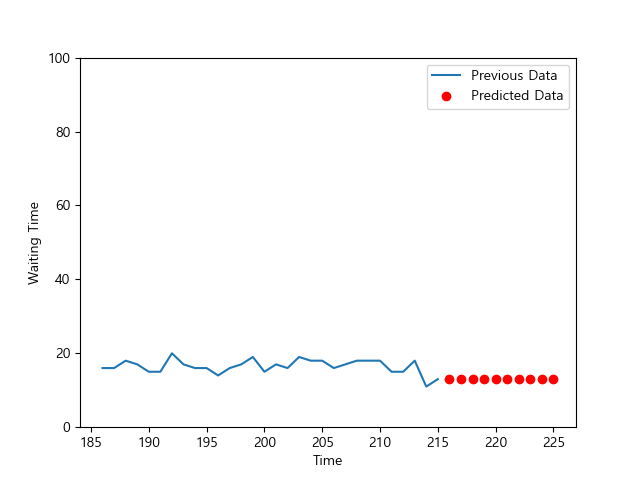
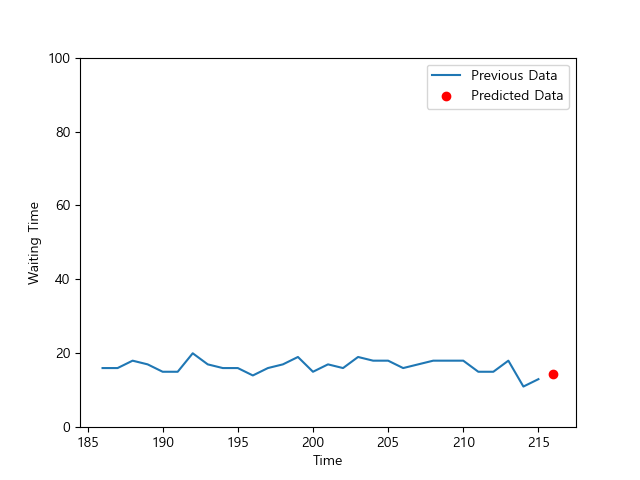
update

diff --git a/pctc-da/Congest_project/yard_congestion/DA/main.py b/pctc-da/Congest_project/yard_congestion/DA/main.py
@@ -38,7 +38,7 @@ def commit_model(new_data):
     # 기존 데이터와 new_data Concat 및 작업코드, 누적 컨테이너 열 정리
     def add_data(data, new_data):
         
-        new_data = pd.DataFrame(new_data)
+        # new_data = pd.DataFrame(new_data)
         new_data = new_data[['작업 지시 시간', '작업 완료 시간', '작업코드']]
         # new_data['작업코드'] = new_data['작업코드'].replace({'양하': 1, '적하': -1, '반입': 1, '반출': -1})        
         print('new_data', new_data)
@@ -105,13 +105,10 @@ def commit_model(new_data):
 
 
         n_data['입차시간'] = n_data['입차시간'].dt.round('5min')  # 5분 단위로 그룹화
-
         n_data = n_data.groupby('입차시간').mean().reset_index()  # 나머지 열의 평균값 계산
-
-        print(n_data)
         return n_data, congest_level
     
-    def make_model(data, new_data2):
+    def make_model(data):
         # 데이터 전처리
         data = n_data[['입차시간', '대기시간new']].copy()
         data.set_index('입차시간', inplace=True)
@@ -151,6 +148,7 @@ def commit_model(new_data):
         predictions = pd.DataFrame({'입차시간': data.index[train_size+window_size:], '예측 대기시간new': y_pred.flatten()})
         print('predictions',predictions)
         predict_time = predictions['예측 대기시간new'].iloc[-1]
+        # 입력한 시간의 예측 대기시간###################################
         print(predict_time)
         # 시간 복원
         test_dates = data.index[train_size+window_size:]
@@ -191,15 +189,12 @@ def commit_model(new_data):
         return predict_time
 
     # 새로운 데이터 포인트 생성
-    new_data2 = pd.DataFrame({'입차시간': ['2021-02-07 20:12:00'], '대기시간new': [0.0]})
-    print(new_data)
-    new_data2['입차시간'] = pd.to_datetime(new_data2['입차시간'])    
-    print(new_data2)
+
     data = load()
     combined_data = add_data(data, new_data)
     n_data, congest_level = preprocessing(combined_data)
-    waiting_time = make_model(n_data, new_data2)
-    return waiting_time, congest_level
+    predict_time = make_model(n_data)
+    return predict_time, congest_level
 
     # new_pred = make_model(n_data)
     # print(new_pred)

diff --git a/pctc-da/Congest_project/yard_congestion/DA/predict_LSTM_test.py b/pctc-da/Congest_project/yard_congestion/DA/predict_LSTM_test.py
@@ -53,9 +53,7 @@ def preprocessing(combined_data):
     df = pd.DataFrame(combined_data)
     df['작업 지시 시간'] = pd.to_datetime(df['작업 지시 시간'])
     df['작업 완료 시간'] = pd.to_datetime(df['작업 완료 시간'])
-
     df['대기시간'] = df['작업 완료 시간'] - df['작업 지시 시간']
-
     n_data = df.copy()
     n_data['작업 지시 시간'] = n_data['작업 지시 시간'].dt.round('5min')  # 5분 단위로 그룹화
     n_data = n_data.groupby('작업 지시 시간').mean().reset_index()  # 나머지 열의 평균값 계산
@@ -73,6 +71,10 @@ def preprocessing(combined_data):
     column_list = n_data['대기시간new'].tolist()
 
     print(column_list)
+    # 파일에 리스트 저장
+    with open("list_data.txt", "w") as file:
+        for item in column_list:
+            file.write(str(item) + "\n")
 
     return column_list
 
@@ -112,7 +114,7 @@ model.fit(X, y, epochs=20, batch_size=32)
 # 이후 30개의 대기시간 예측
 last_sequence = data[-lookback:]  # 최근 30개의 대기시간 데이터를 가져옵니다.
 predicted_data = []
-for _ in range(10):
+for _ in range(1):
     sequence = np.array(last_sequence)
     sequence = np.reshape(sequence, (1, lookback, 1))
     prediction = model.predict(sequence)[0][0]
@@ -124,7 +126,7 @@ print(predicted_data)
 
 # 그래프로 예측 결과와 실제 데이터를 표현합니다.
 x_axis_previous = range(len(data)-30, len(data))  # 기존 데이터 중 마지막 30개의 인덱스
-x_axis_predicted = range(len(data), len(data) + 10)  # 이후 3개의 예측 데이터
+x_axis_predicted = range(len(data), len(data) + 1)  # 이후 2개의 예측 데이터
 # 개수 오류 계속 났었음. ( x_axis_previous = previous_data 맞춰줘야 하고, x_axis_predicted = predicted_data 맞춰줘야 함)
 plt.plot(x_axis_previous, previous_data, label='Previous Data')
 plt.scatter(x_axis_predicted, predicted_data, label='Predicted Data', color='red')

diff --git a/pctc-da/Congest_project/yard_congestion/app.py b/pctc-da/Congest_project/yard_congestion/app.py
@@ -31,22 +31,6 @@ def congestion():
 #     retraining.add_data(response)
     
 #     return jsonify(response.json())
-# @app.route('/api/congtranstime', methods=['GET', 'POST'])
-# def congestion():
-#     if request.method == 'POST':
-#         data = request.get_json()
-
-#         time = data['time']
-#         result_model_at_block, block_list = congestAnal.test2(time)
-#         json_data = jsonify({
-#             'congest_at_block': result_model_at_block,
-#             'block_list': block_list
-#         })
-
-#         return json_data
-#     else:
-#         return 'error'    
-
 
 
 if __name__ == '__main__':

diff --git a/pctc-da/Congest_project/README.md b/pctc-da/Congest_project/README.md
@@ -1,5 +1,12 @@
 ## 진행상황.
-- predict_LSTM_test = > 이전 데이터의 대기시간(5분 단위) 학습하여 향후 대기시간 예측(LSTM 사용)
+- predict_LSTM_test = > 기 데이터의 대기시간 학습하여 향후 대기시간(5분 단위) 예측(LSTM 사용)
+    + 향후 예측시간(현재 기준 5분단위 개수) 입력 시 기 학습 내용으로 향후 대기시간s 출력
+
 - main.py = > 대기시간, 야드 내 트럭 대수를 통한 혼잡도 분석 및 Congest_level 출력
+    + 입력값으로 예측 입차시기를 입력하면 예측 대기시간 및 혼잡도 출력
+    + 현재는 실제 데이터 없어 -> 더미 데이터로 실행하기 위해 대기시간을 (작업지시 시간 - 작업완료 시간)으로 정해놨음
+    + 이에 따라 1.작업지시 시간, 2.작업완료 시간, 3.작업 코드를 입력해야 함
+
 - simulator 로 데이터 생성 및 애니메이션 실행
-+ simulator_make_data.py -> simulator_sort_graph.py
+    + simulator_make_data.py -> simulator_sort_graph.py
+    
